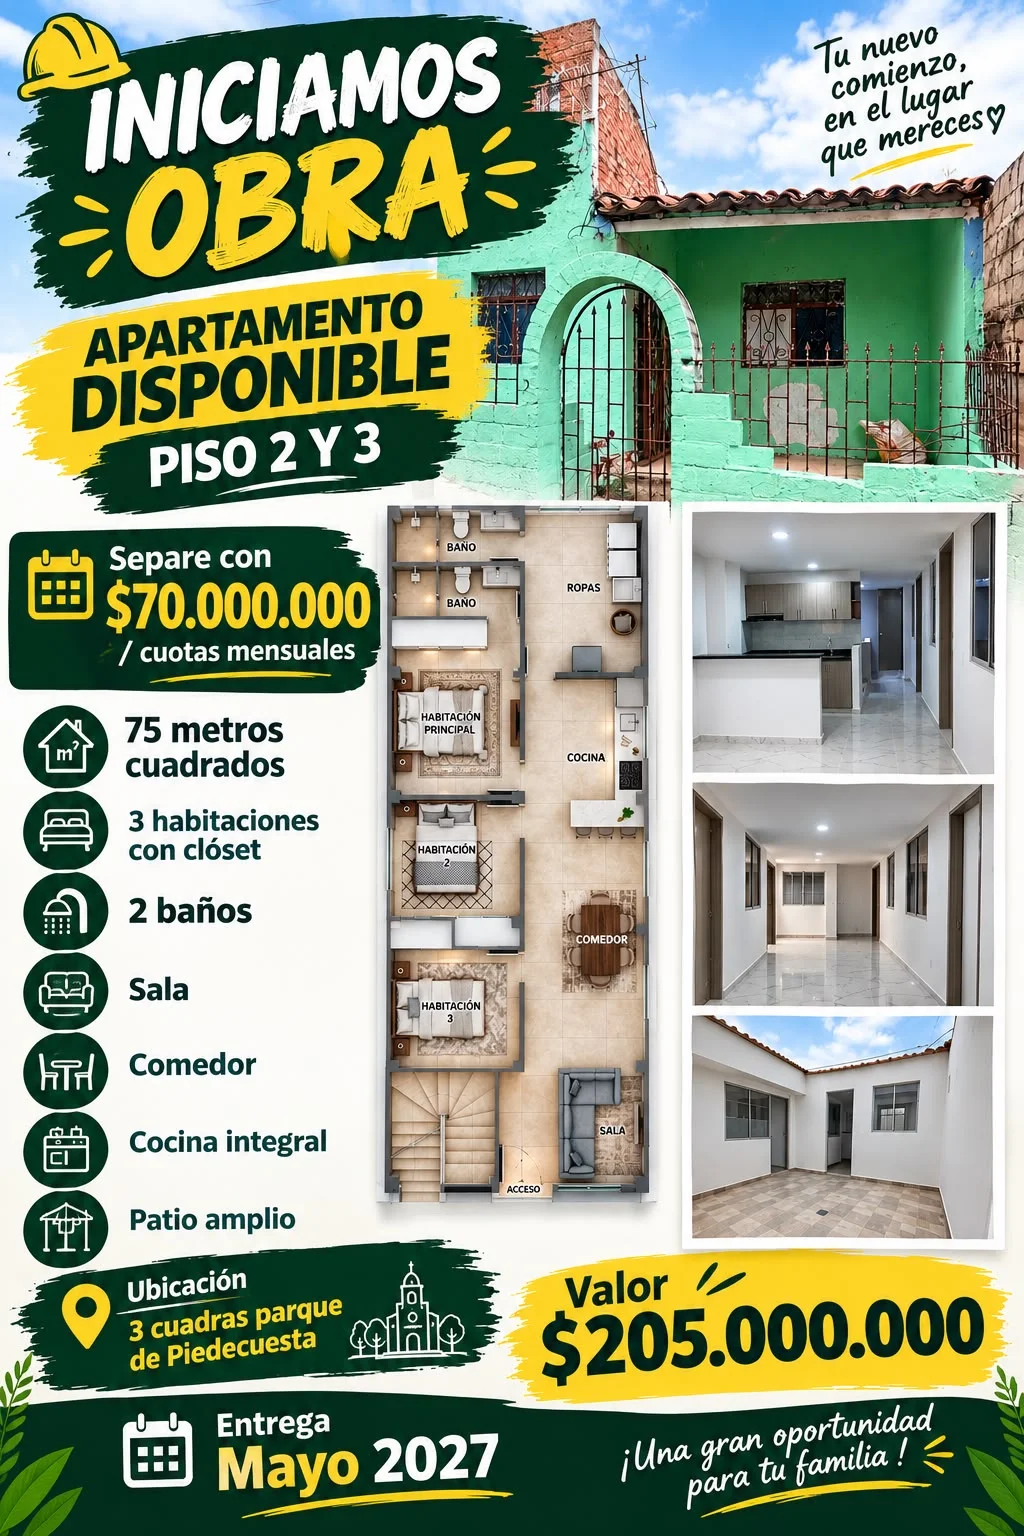
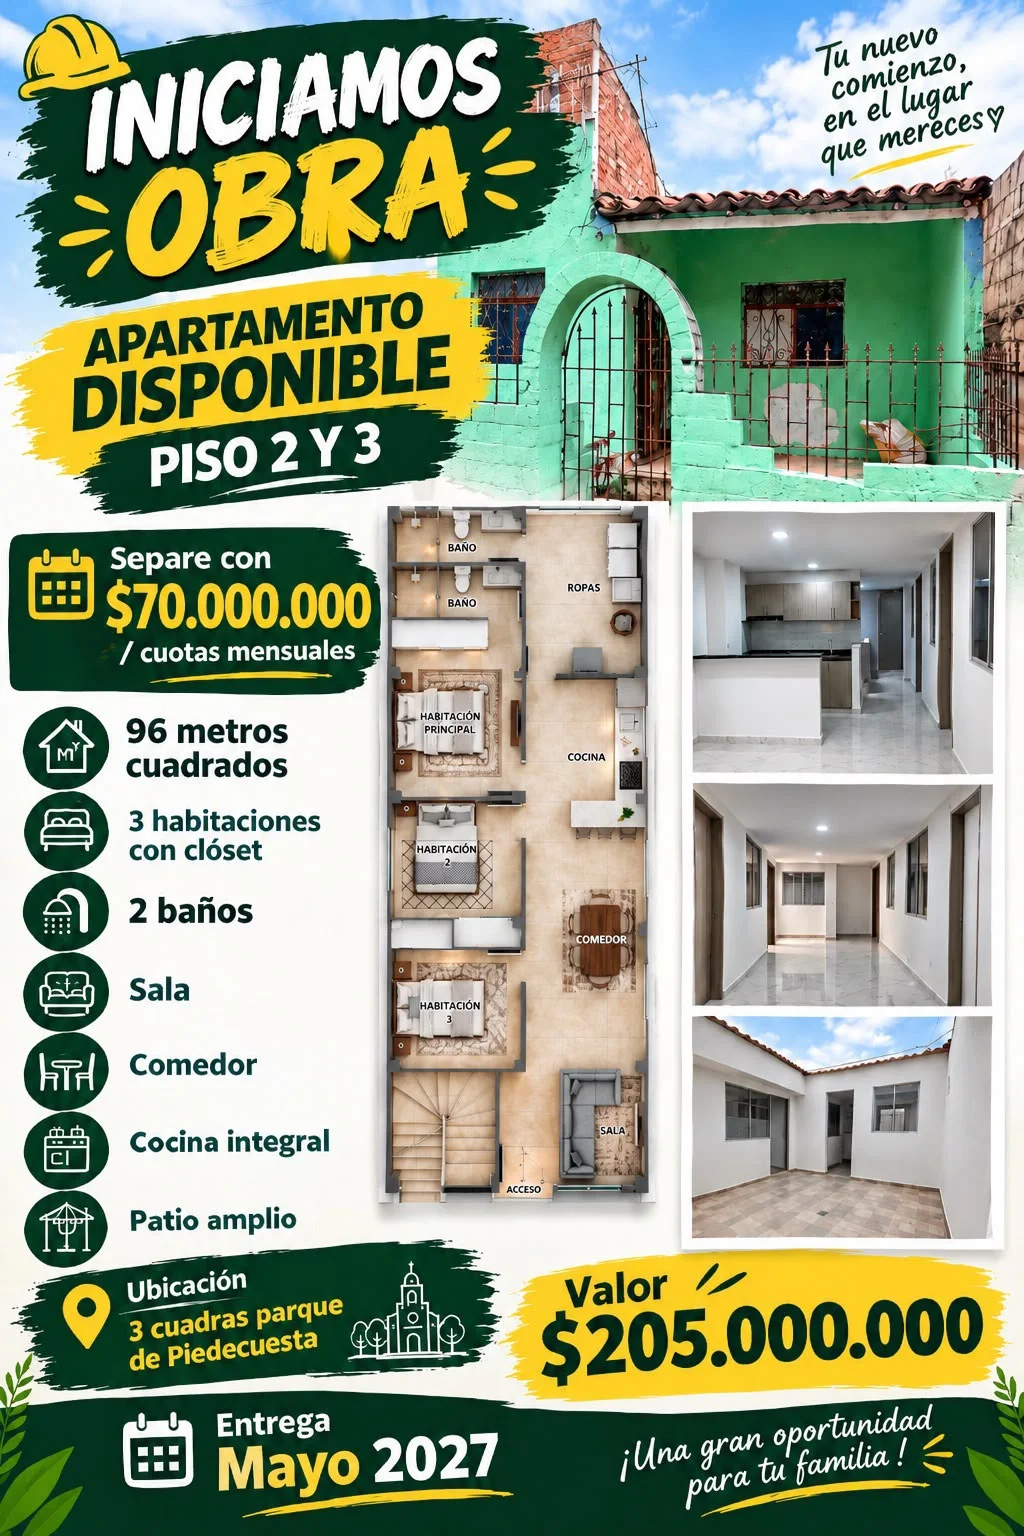
cambios visuales

diff --git a/src/components/Header/Header.tsx b/src/components/Header/Header.tsx
@@ -1,6 +1,7 @@
 "use client";
 
 import Link from "next/link";
+import Image from "next/image";
 import { useEffect, useState } from "react";
 import { FiMapPin } from "react-icons/fi";
 import styles from "./Header.module.css";
@@ -38,6 +39,15 @@ export default function Header({ showHero = true, solid = false }: HeaderProps) 
           <Link href="/propiedades">Propiedades</Link>
           <Link href="/vendidas">Vendidas</Link>
           <Link href="/contacto">Contacto</Link>
+          <Link href="/" className={styles.logoLink} aria-label="Ir al inicio">
+            <Image
+              className={styles.logo}
+              src="/images/Logotipacion/Logo.jpeg"
+              alt="Constructora Hernandez"
+              width={42}
+              height={42}
+            />
+          </Link>
         </div>
       </nav>
 

diff --git a/src/components/Header/Header.module.css b/src/components/Header/Header.module.css
@@ -87,6 +87,32 @@
   color: #b08d57;
 }
 
+.logoLink {
+  display: inline-flex;
+  flex: 0 0 auto;
+  align-items: center;
+  justify-content: center;
+  width: 2.65rem;
+  height: 2.65rem;
+  margin-left: 0.15rem;
+  border: 1px solid rgba(176, 141, 87, 0.75);
+  border-radius: 50%;
+  overflow: hidden;
+  transition: border-color 0.2s ease, transform 0.2s ease;
+}
+
+.logoLink:hover,
+.logoLink:focus-visible {
+  border-color: #f5f3ee;
+  transform: scale(1.06);
+}
+
+.logo {
+  width: 100%;
+  height: 100%;
+  object-fit: cover;
+}
+
 .content {
   width: min(1000px, calc(100% - 32px));
   margin: auto;
@@ -196,6 +222,11 @@
     flex-wrap: wrap;
     justify-content: center;
     font-size: 0.8rem;
+  }
+
+  .logoLink {
+    width: 2.25rem;
+    height: 2.25rem;
   }
 
   .content {

diff --git a/src/data/properties.ts b/src/data/properties.ts
@@ -16,7 +16,7 @@ properties.push(
     priceValue: 205000000,
     bedrooms: 3,
     bathrooms: 2,
-    area: "75 m²",
+    area: "96 m²",
     status: "En obra",
     image: "/images/properties/Obra pidecuesta/Opidecuesta1.webp",
     highlight: "Separación desde $70.000.000 · Entrega mayo de 2027",
@@ -41,7 +41,7 @@ properties.push(
     priceValue: 205000000,
     bedrooms: 3,
     bathrooms: 2,
-    area: "75 m²",
+    area: "96 m²",
     status: "En obra",
     image: "/images/properties/Obra pidecuesta/Opidecuesta1.webp",
     highlight: "Separación desde $70.000.000 · Entrega mayo de 2027",

diff --git a/app/layout.tsx b/app/layout.tsx
@@ -26,6 +26,21 @@ export const metadata: Metadata = {
   authors: [{ name: siteName, url: siteUrl }],
   creator: siteName,
   publisher: siteName,
+  icons: {
+    icon: [
+      {
+        url: "/images/Logotipacion/Logo.jpeg",
+        type: "image/jpeg",
+      },
+    ],
+    shortcut: ["/images/Logotipacion/Logo.jpeg"],
+    apple: [
+      {
+        url: "/images/Logotipacion/Logo.jpeg",
+        type: "image/jpeg",
+      },
+    ],
+  },
   keywords: [
     "inmobiliaria Bucaramanga",
     "apartamentos en venta Bucaramanga",
